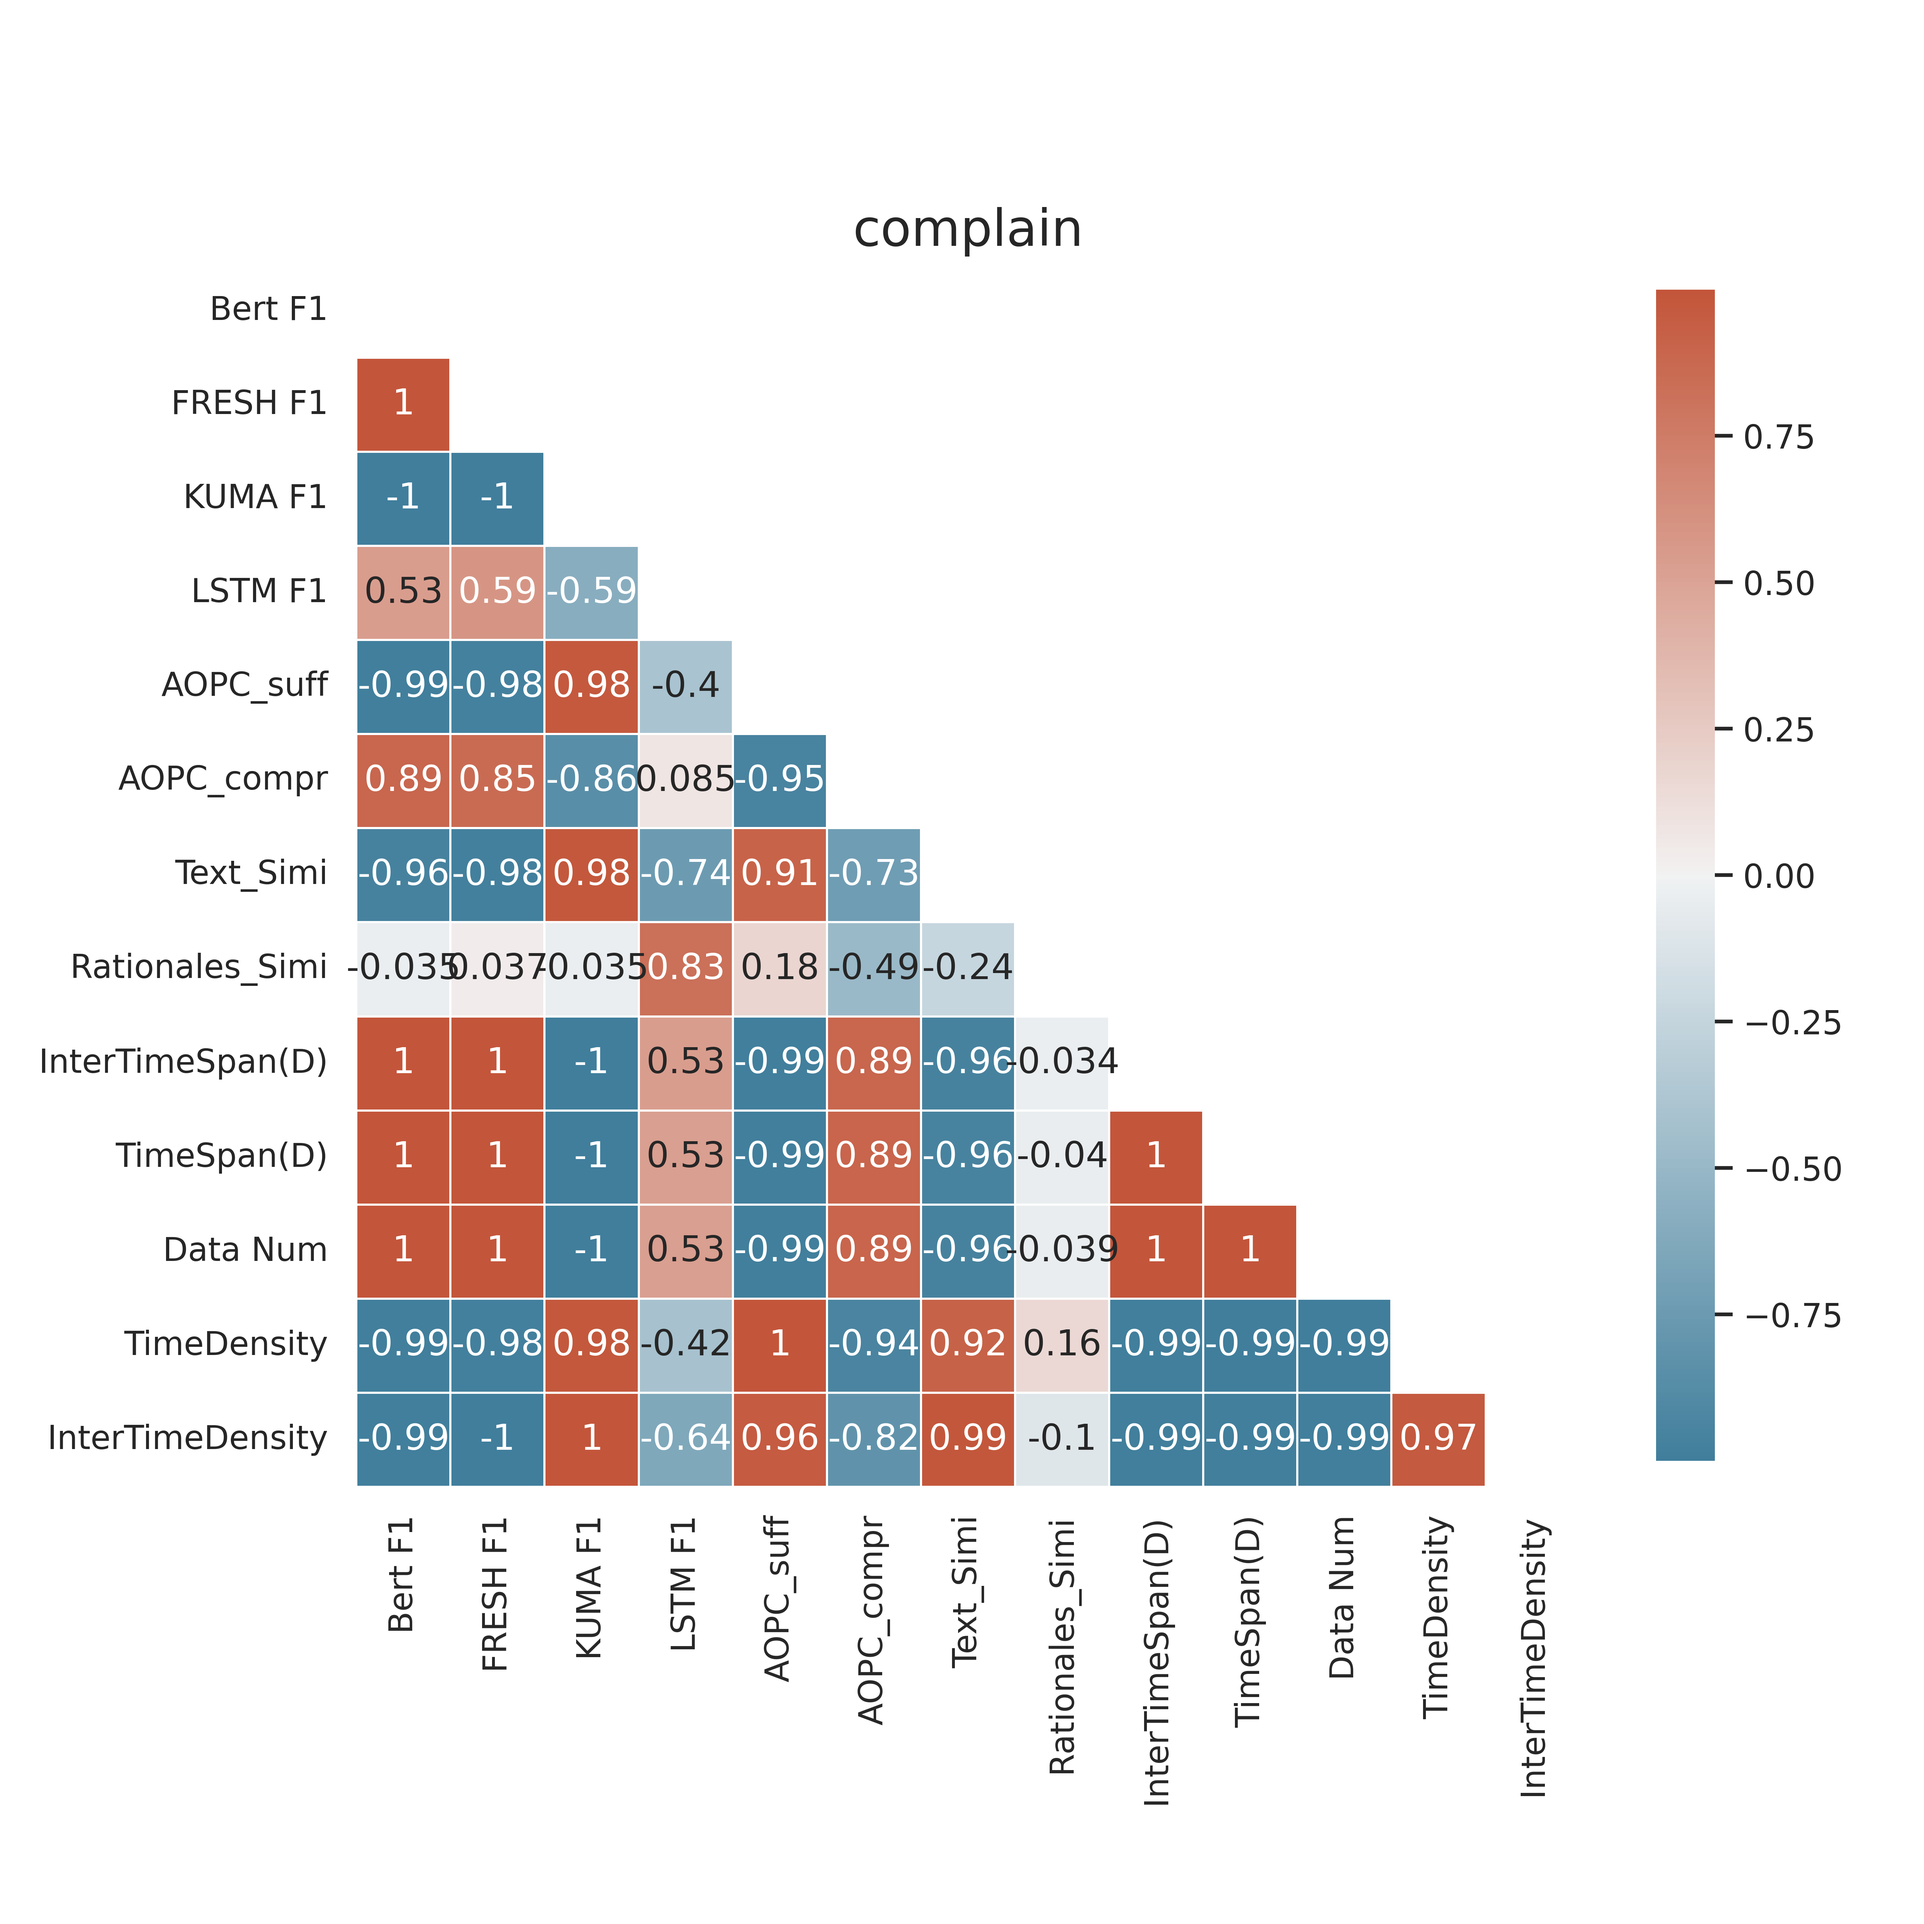
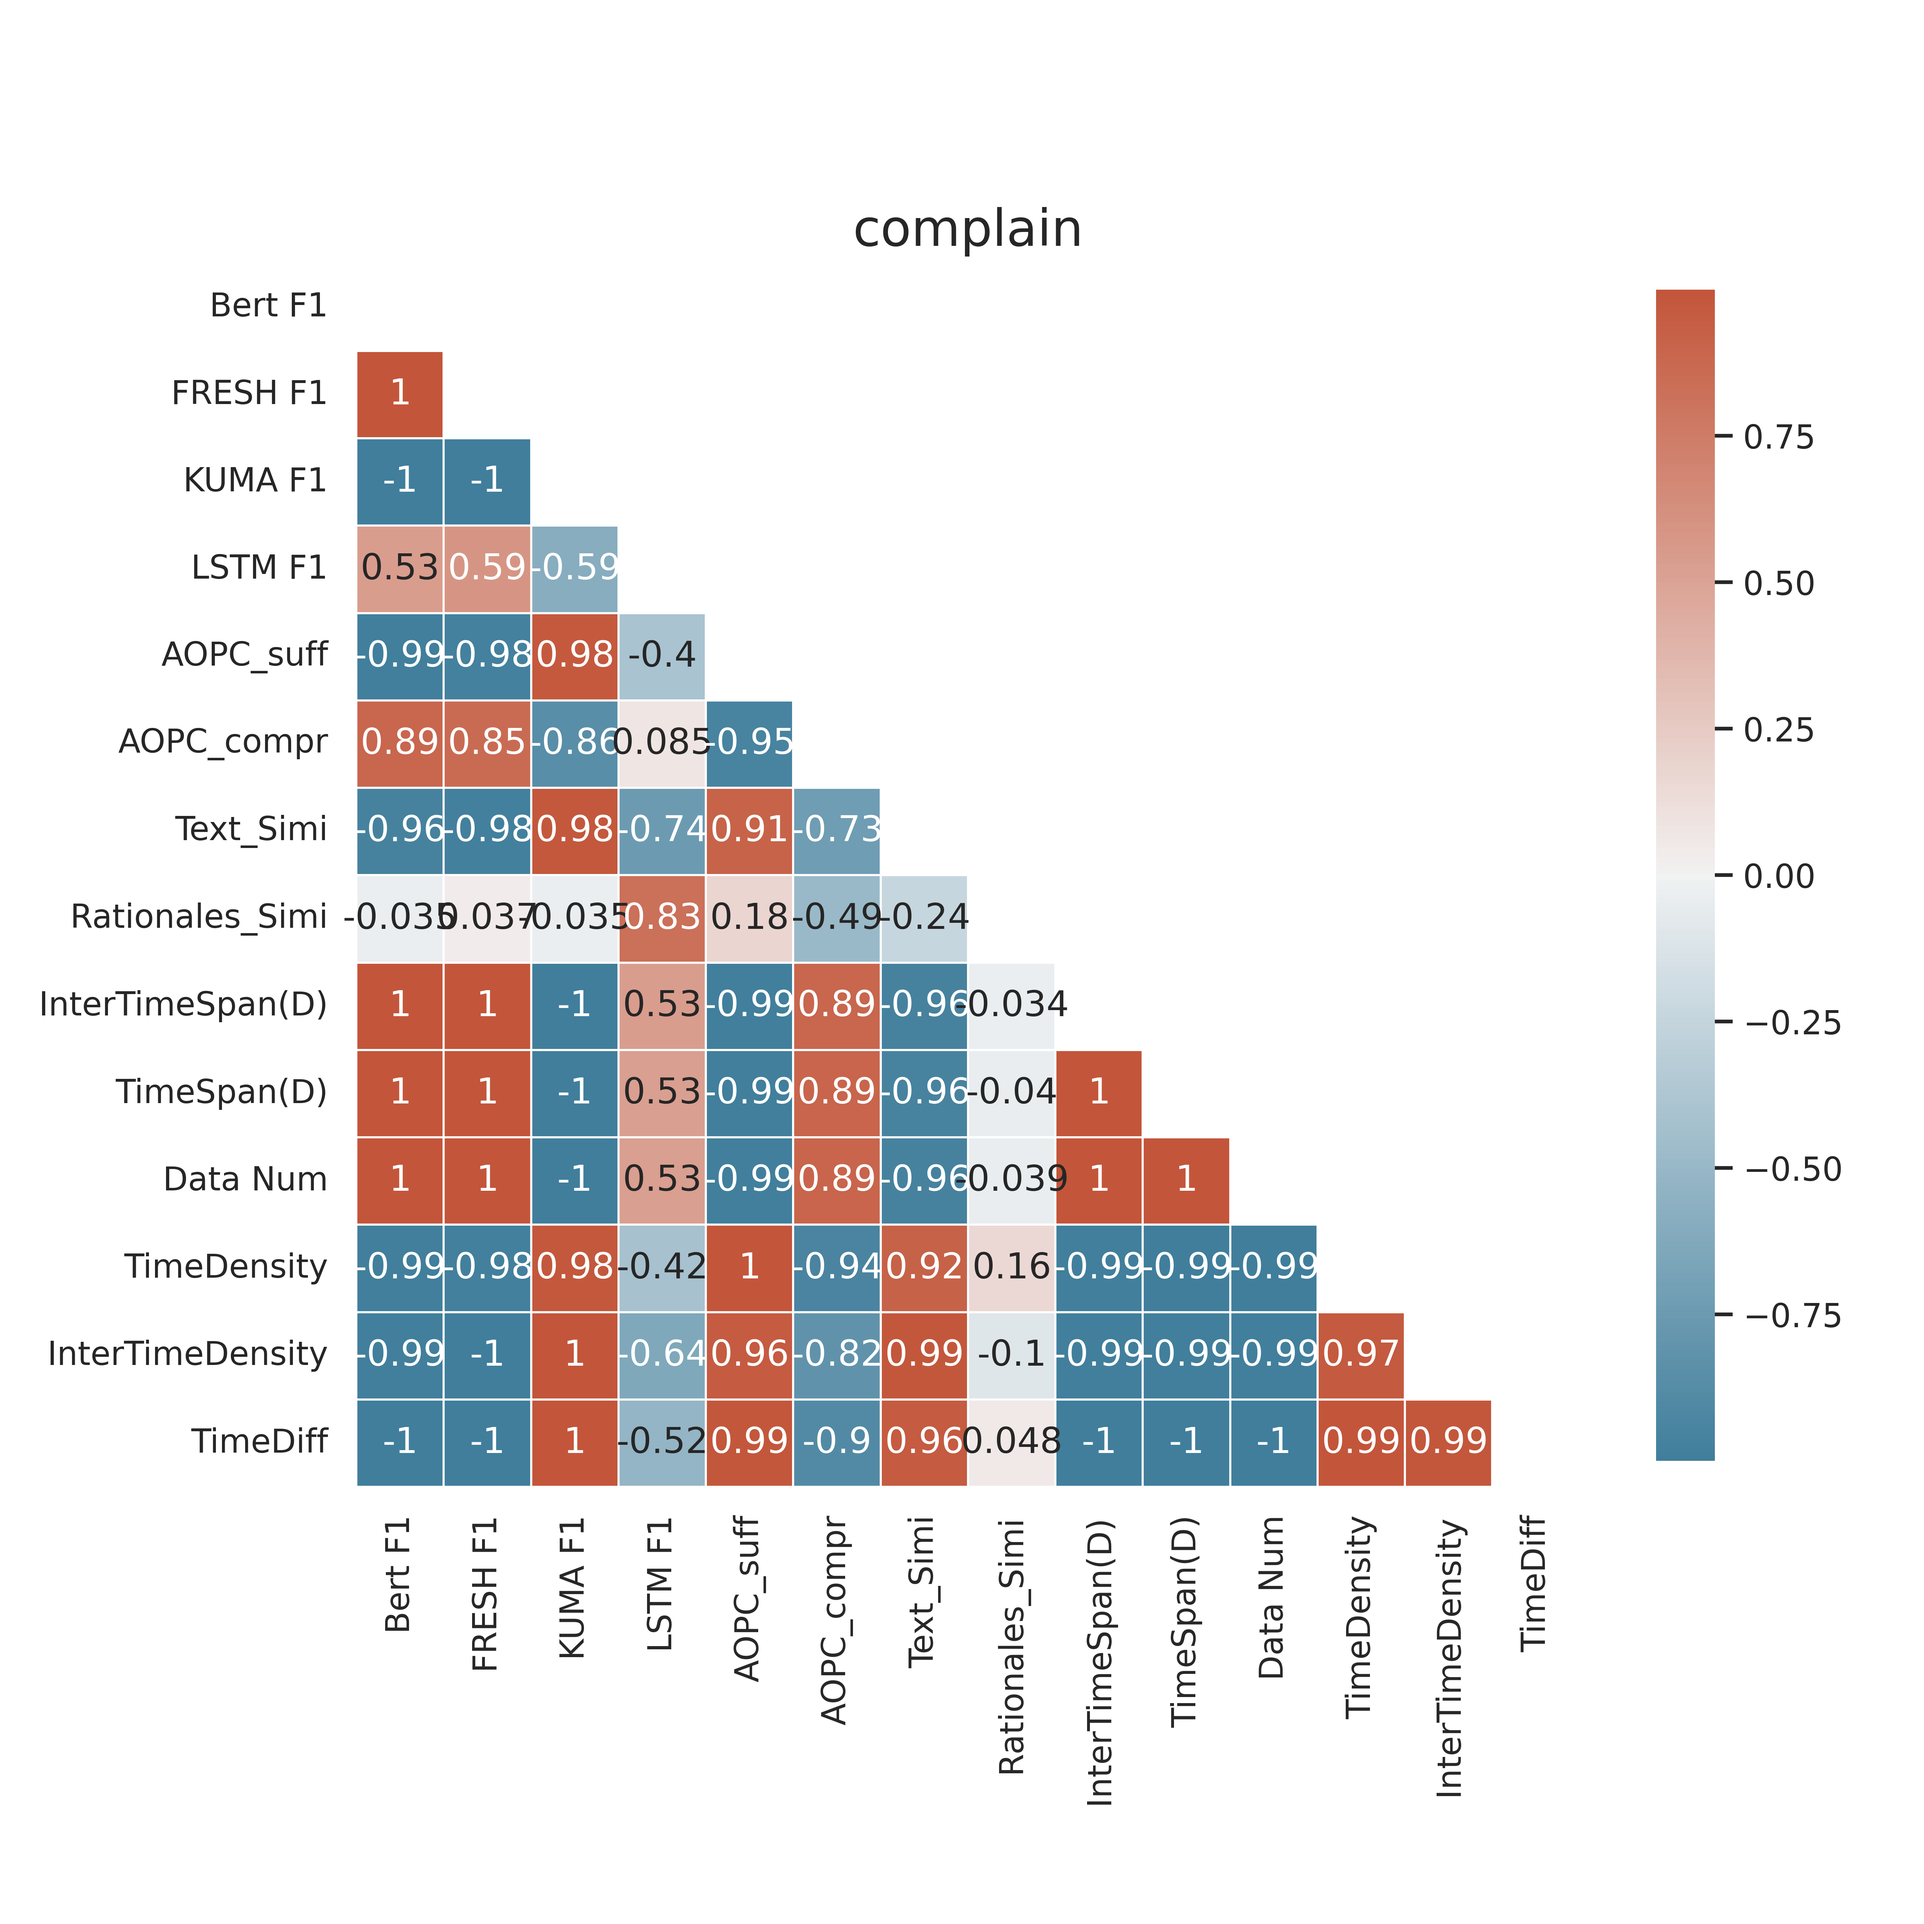
m

diff --git a/save_everything.py b/save_everything.py
@@ -7,6 +7,7 @@
 
 # 7. datasets metadata: train/test/ size, time span, label distribution
 
+from telnetlib import PRAGMA_HEARTBEAT
 import pandas as pd
 import json
 import csv
@@ -105,12 +106,20 @@ if args.save_data_stat:
             Interquartile_end = df['date'][0]
             duration = end_date - start_date
 
-        stat_df = pd.DataFrame({'Domain': [str(domain)], 'Label distribution': [label_dist], 'Interquartile - Oldest': [Interquartile_start],
-                                'Median': [Interquartile_Mid], 'Interquartile - Newest': [Interquartile_end],
+        stat_df = pd.DataFrame({'Domain': [str(domain)], 'Label distribution': [label_dist], 'Interquartile-Oldest': [Interquartile_start],
+                                'Median': [Interquartile_Mid], 'Interquartile-Newest': [Interquartile_end],
                                 'InterTimeSpan(D)': [inter_duration.days],
                                 'Oldest Date': [start_date], 'Newest Date': [end_date], 'TimeSpan(D)': [duration.days],
                                 'Data Num': [len(df)],
                                 })
+        
+        stat_df['InterTimeSpan(D)'] = pd.to_numeric(stat_df['InterTimeSpan(D)'].astype(str).str.replace(r' days$', '', regex=True))
+        stat_df['TimeSpan(D)'] = pd.to_numeric(stat_df['TimeSpan(D)'].astype(str).str.replace(r' days$', '', regex=True))
+
+        stat_df['TimeDensity'] = stat_df['Data Num']/stat_df['TimeSpan(D)']
+        stat_df['InterTimeDensity'] = stat_df['Data Num']*0.5/stat_df['InterTimeSpan(D)']
+        stat_df['Data Num'] = pd.to_numeric(stat_df['Data Num'])
+
         print('done for :', str(domain))
 
         return stat_df
@@ -147,6 +156,24 @@ if args.save_data_stat:
     ood2 = df2stat_df(ood2_df, 'OOD2')
 
     df = pd.concat([full, indomain_train, indomain_test, ood1, ood2])
+
+    start_date = df.iloc[0]['Oldest Date']
+    end_date = df.iloc[0]['Newest Date']
+    Inter_start_date = df.iloc[0]['Interquartile-Oldest']
+    Inter_end_date = df.iloc[0]['Interquartile-Newest']
+    Median = df.iloc[0]['Median']
+
+    TimeSpan = df.iloc[0]['TimeSpan(D)']
+    print('==============')
+    print(TimeSpan)
+    InterTimeSpan = df.iloc[0]['InterTimeSpan(D)']
+    
+    print(abs(df['Oldest Date']-start_date))
+
+    df['TimeDiff'] = abs(df['Oldest Date']-start_date) + abs(df['Newest Date']-end_date) + abs(df['Interquartile-Oldest']-Inter_start_date) + abs(df['Interquartile-Newest']-Inter_end_date) + abs(df['Median']-Median)
+    df['TimeDiff'] = pd.to_numeric(df['TimeDiff'].astype(str).str.replace(r' days$', '', regex=True))/(TimeSpan*0.5+InterTimeSpan*0.5)
+    print(df['TimeDiff'])
+
     df.to_csv('./saved_everything/'+ str(args.dataset) +'/dataset_stats.csv')
 
 

diff --git a/saved_everything/post_analysis.py b/saved_everything/post_analysis.py
@@ -19,6 +19,8 @@ for i, task in enumerate(task_list):
     task_index = i+1
     pwd = os.getcwd()
     path = os.path.join(pwd, str(task_name), 'key_results.csv')
+
+    ### predictive
     predictive = pd.read_csv(path)
     predictive = predictive[['Domain', 'Bert F1', 'FRESH F1', 'KUMA F1', 'LSTM F1']]
     try:
@@ -28,22 +30,17 @@ for i, task in enumerate(task_list):
     except:
         print('no try')
 
+    ### data_stat
     data_stat = pd.read_csv('./' + task_name + '/dataset_stats.csv')#.iloc[: , 1:]
-    # if task_name == 'binarybragging':
-    #     data_stat['InterTimeSpan(D)'] = data_stat['Interquartile Time Span in Days']
-    #     data_stat['TimeSpan(D)'] = data_stat['Time Span in Days']
-    #     data_stat = data_stat.drop(['Interquartile Time Span in Days', 'Time Span in Days'], axis=1)
-
-    # else:
     data_stat['InterTimeSpan(D)'] = pd.to_numeric(data_stat['InterTimeSpan(D)'].astype(str).str.replace(r' days$', '', regex=True))
     data_stat['TimeSpan(D)'] = pd.to_numeric(data_stat['TimeSpan(D)'].astype(str).str.replace(r' days$', '', regex=True))
 
     data_stat['TimeDensity'] = data_stat['Data Num']/data_stat['TimeSpan(D)']
     data_stat['InterTimeDensity'] = data_stat['Data Num']*0.5/data_stat['InterTimeSpan(D)']
     data_stat['Data Num'] = pd.to_numeric(data_stat['Data Num'])
-    data_stat = data_stat[['Domain', 'Label distribution', 'Interquartile - Oldest',
-       'Median', 'Interquartile - Newest', 'InterTimeSpan(D)', 'Oldest Date',
-       'Newest Date', 'TimeSpan(D)', 'Data Num', 'TimeDensity','InterTimeDensity']]
+    data_stat = data_stat[['Domain', 'Label distribution', 'Interquartile-Oldest',
+       'Median', 'Interquartile-Newest', 'InterTimeSpan(D)', 'Oldest Date',
+       'Newest Date', 'TimeSpan(D)', 'Data Num', 'TimeDensity','InterTimeDensity','TimeDiff']]
 
     for file in os.listdir('./' + task_name + '/'):
         if fnmatch.fnmatch(file, '*fulltext_similarity*'):
